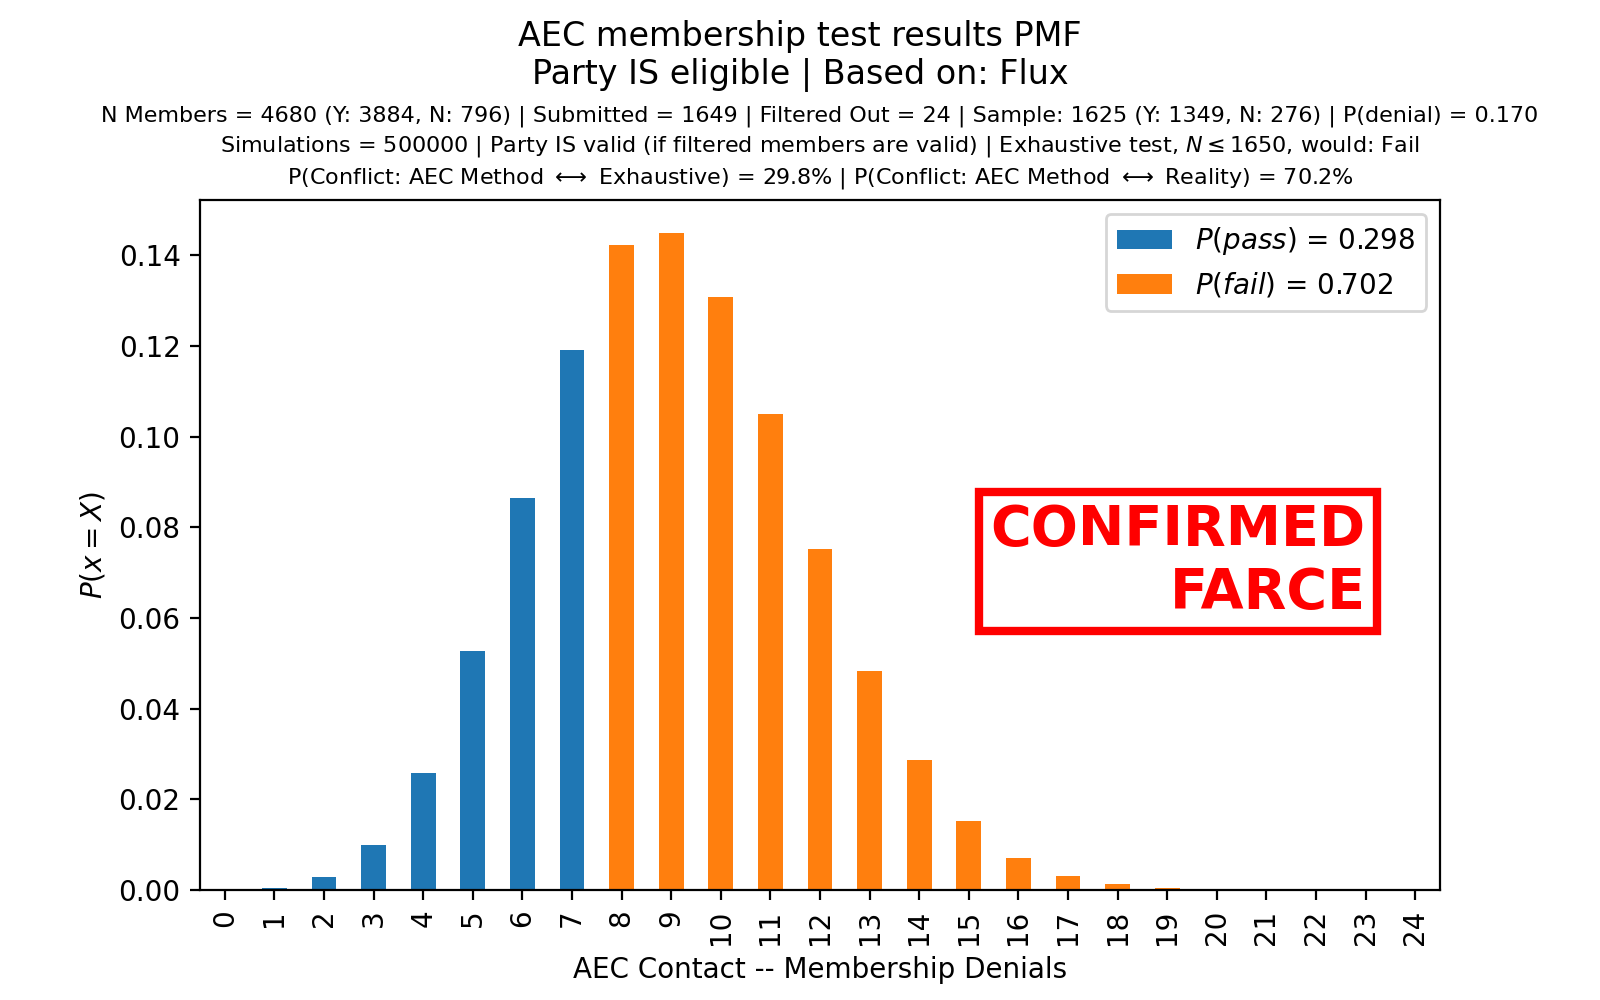
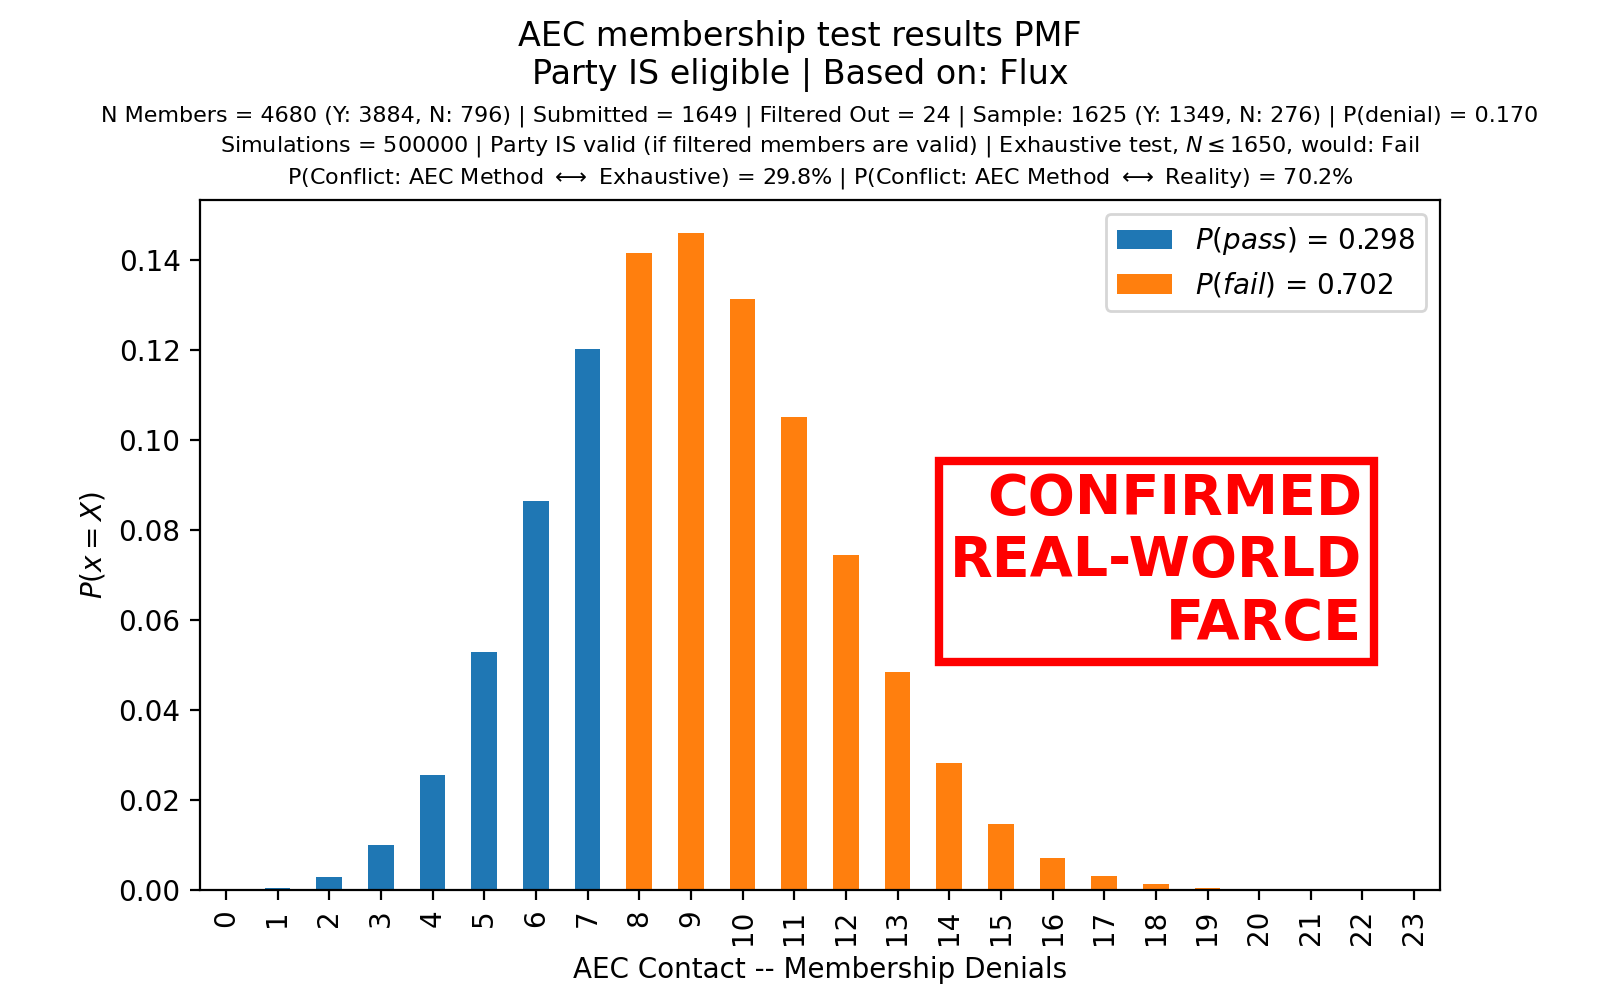
well, I think we can conclude that this shit's fucked.

diff --git a/main.py b/main.py
@@ -252,8 +252,6 @@ def name_to_fname_sfx(n: str):
     return n.lower().strip().replace(' ', '-').replace('(', '').replace(')', '').replace('@', '_')
 
 
-# shuffle members, take 1649, eliminate 24, sample 53, record X failures
-# for trial_ix in range(n_trials):
 def run_trials(n_trials, total_members, failure_rate, sample_size, n_members_removed, reduced_sample_size, n_to_sample, filter_any):
     # generate a list of members with some given non-member rate (i.e. these members will always fail)
     members = list(mk_members(total_members, failure_rate))
@@ -272,6 +270,7 @@ def run_trials(n_trials, total_members, failure_rate, sample_size, n_members_rem
             reduced_sample = list(filter_n_members(lambda m: m[1], membership_sample, n_members_removed))
         else:
             # the following line will remove n_members_removed indiscriminantly
+            # note: it makes little difference -- only in very borderline cases.
             reduced_sample = list(membership_sample[n_members_removed:])
         assert reduced_sample_size == len(reduced_sample)
 
@@ -345,6 +344,7 @@ def run(trial_pool: pool.Pool, n_trials: int, run_spec: RunSpec, graph_title=Non
     aec_nonreality_rate = cum_failed if party_valid else cum_passed
     # this is generous, but it's definitely a farce in these cases
     is_farce = aec_false_neg >= 0.5
+    is_bad_conf = aec_false_neg >= 0.1
     title = \
         run_spec.subtitle_line() \
         + "\n" + " | ".join([
@@ -363,11 +363,18 @@ def run(trial_pool: pool.Pool, n_trials: int, run_spec: RunSpec, graph_title=Non
     plt.subplots_adjust(top=0.80)
     plt.legend()
 
-    if is_farce:
-        loc = (n_cols - 2, max_p / 2)
-        bbox = {'facecolor': 'none', 'edgecolor': 'red', 'lw': 3}
-        extra_end = [f"if $N \\gtrsim {total_members}$"] if farce_extra not in {"KNOWN", "CONFIRMED"} else []
-        farce_txt = "\n".join(if_else(farce_extra, [farce_extra], []) + ["FARCE"] + if_else(farce_extra, extra_end, []))
+    loc = (n_cols - 2, max_p / 2)
+    bbox = {'facecolor': 'none', 'edgecolor': 'red', 'lw': 3}
+    def notice_box(farce_or):
+        return "\n".join(if_else(farce_extra, [farce_extra], []) + [farce_or] + if_else(farce_extra, extra_end, []))
+    if is_farce: # or is_bad_conf:
+        farce_txt = None
+        if is_farce:
+            extra_end = [f"if $N \\gtrsim {total_members}$"] if "CONFIRMED" not in farce_extra else []
+            farce_txt = notice_box("FARCE")
+        # elif is_bad_conf:
+        #     farce_txt = notice_box("")
+        assert farce_txt is not None
         plt.text(loc[0], loc[1], farce_txt, ha='right', va='center', color='red', fontweight='black', fontsize=20, bbox=bbox)
 
     fname = run_spec.out_fname(n_trials, party_name, is_farce)
@@ -394,15 +401,17 @@ def aec(n_trials, show, jobs, force, non_essential, only_flux):
         _kwargs = dict(show=show, force=force)
         _kwargs.update(kwargs)
         run(trial_pool, n_trials, *args, **_kwargs)
-    _run(default_run_spec, party_name="Flux", farce_extra="CONFIRMED")
-    _run(RunSpec(frs.total_members, frs.failure_rate, frs._sample_size, frs.n_members_removed, filter_any=True), party_name="Flux", farce_extra="CONFIRMED")
+    _run(default_run_spec, party_name="Flux", farce_extra="CONFIRMED\nREAL-WORLD")
+    _run(RunSpec(frs.total_members, frs.failure_rate, frs._sample_size, frs.n_members_removed, filter_any=True), party_name="Flux", farce_extra="CONFIRMED\nREAL-WORLD")
     _run(RunSpec(frs.total_members, frs.failure_rate, 1650, 0), party_name="Flux+NoFilter")
     _run(RunSpec(frs.total_members, frs.failure_rate, 1650, 0, filter_any=True), party_name="Flux+NoFilter")
     _run(RunSpec(round(frs.total_members * 1.2), (796 + frs.total_members * 0.1) / frs.total_members / 1.2, 1650, 0), party_name="Flux+Gain20%Lose10%")
     _run(RunSpec(round(frs.total_members * 1.2), (796 + frs.total_members * 0.1) / frs.total_members / 1.2, 1650, 24), party_name="Flux+Gain20%Lose10%")
     _run(RunSpec(frs.total_members, 0.5, 1650, 0), party_name="Flux+HalfBadMembers")
     _run(RunSpec(frs.total_members, 150/1650, frs.sample_size, frs.n_members_removed), party_name="Flux@Thresh")
+    _run(RunSpec(frs.total_members, 150/1650, frs.sample_size, frs.n_members_removed, filter_any=True), party_name="Flux@Thresh")
     _run(RunSpec(frs.total_members, 150/1650, frs.sample_size, 49), party_name="Flux@Thresh+F50")
+    _run(RunSpec(frs.total_members, 150/1650, frs.sample_size, 49, filter_any=True), party_name="Flux@Thresh+F50")
     _run(RunSpec(frs.total_members, 150/1650, frs.sample_size, 99), party_name="Flux@Thresh+F99")
     _run(RunSpec(frs.total_members, 150/1650, frs.sample_size, 99, filter_any=True), party_name="Flux@Thresh+F99")
     _run(RunSpec(frs.total_members, 150/1650, frs.sample_size, 149), party_name="Flux@Thresh+F149")

diff --git a/README.md b/README.md
@@ -28,7 +28,7 @@ Additionally, experimental evidence shows that the confidence of Flux's 2021 mem
 
 The AEC's claim that their membership tests are conducted to a confidence of 90% are proven false. In actual fact, for a party that is capable of providing a list of 1,650 members wherein exactly 1,500 members will not deny membership (and 150 will): experimental evidence proves that the worst-case confidence of the AEC's membership test is just 15.1%, indicating a false negative rate of 84.9%. This is an indication of gross negligence or gross incompetence, or both.
 
-*Note: calculated values given in this document (including graphs) are assumed to have a combined, codependent error of ±0.3% (i.e., they differ by, at most, 3 parts per 1,000). This is taken to be negligible and a non-critical error.*
+*Note: calculated values given in this document (including graphs) are assumed to have a combined, codependent error of ±0.3 percentage points (i.e., as numerical percentages, the values differ by 0.003 at most). This is taken to be negligible and a non-critical error.*
 
 ## 1. Background Context
 
@@ -93,7 +93,7 @@ grounds; each argument is a *decisive criticism* of the current methodology.
 
 Yesterday (2022-02-14) I was curious about the *actual* statistical properties of the AEC's process. How likely would it have been for us to succeed? (Given that we are **in fact** an eligible party.)
 
-Turns out there was a ~72% chance that the AEC's method would find a false negative.
+Turns out there was a 71.9% chance that the AEC's method would find a false negative.
 
 ### TL;DR: It's rigged.
 
@@ -112,7 +112,7 @@ Parameters are: number of trials in the simulation, the population size of membe
 
 ## 5. Major Findings
 
-In the case of Flux's recent membership audit, the simulation shows that -- *on the assumption that Flux is an eligible party*, and that 17% of members provided will respond "No" -- there is a ~72% chance of the AEC reaching a *false negative* result. In such a case, overall Flux would have over 3,800 members that respond "Yes" (or do not respond). See <a href="https://xertrov.github.io/aec-membership-test-simulator/png/aec-test-sim-FARCE-N500000-m4680-f796-s1649-r24-flux.png">Fig 1</a>.
+In the case of Flux's recent membership audit, the simulation shows that -- *on the assumption that Flux is an eligible party*, and that 17% of members provided will respond "No" -- there is a 71.9% chance of the AEC reaching a *false negative* result. In such a case, overall Flux would have over 3,800 members that respond "Yes" (or do not respond). See <a href="https://xertrov.github.io/aec-membership-test-simulator/png/aec-test-sim-FARCE-N500000-m4680-f796-s1649-r24-flux.png">Fig 1</a>.
 
 What if we repeat the exercise? How many membership tests would be required to reach a positive result 90% of the time (i.e., 10% of the time Flux fails every test)?
 
@@ -141,7 +141,7 @@ Say 50% of Flux's 4680 members submitted (as part of our objection to the AEC's 
     <img src="https://xertrov.github.io/aec-membership-test-simulator/png/aec-test-sim-FARCE-N500000-m4680-f796-s1649-r24-flux.png" />
     <br>
     <em>
-        <a href="https://xertrov.github.io/aec-membership-test-simulator/png/aec-test-sim-FARCE-N500000-m4680-f796-s1649-r24-flux.png">Fig 1</a>: Even though an assumption of this simulation is that Flux is an eligible political party, the AEC's method fails ~72% of the time.</em>
+        <a href="https://xertrov.github.io/aec-membership-test-simulator/png/aec-test-sim-FARCE-N500000-m4680-f796-s1649-r24-flux.png">Fig 1</a>: Even though an assumption of this simulation is that Flux is an eligible political party, the AEC's method fails 71.9% of the time.</em>
 </p>
 
 ---
